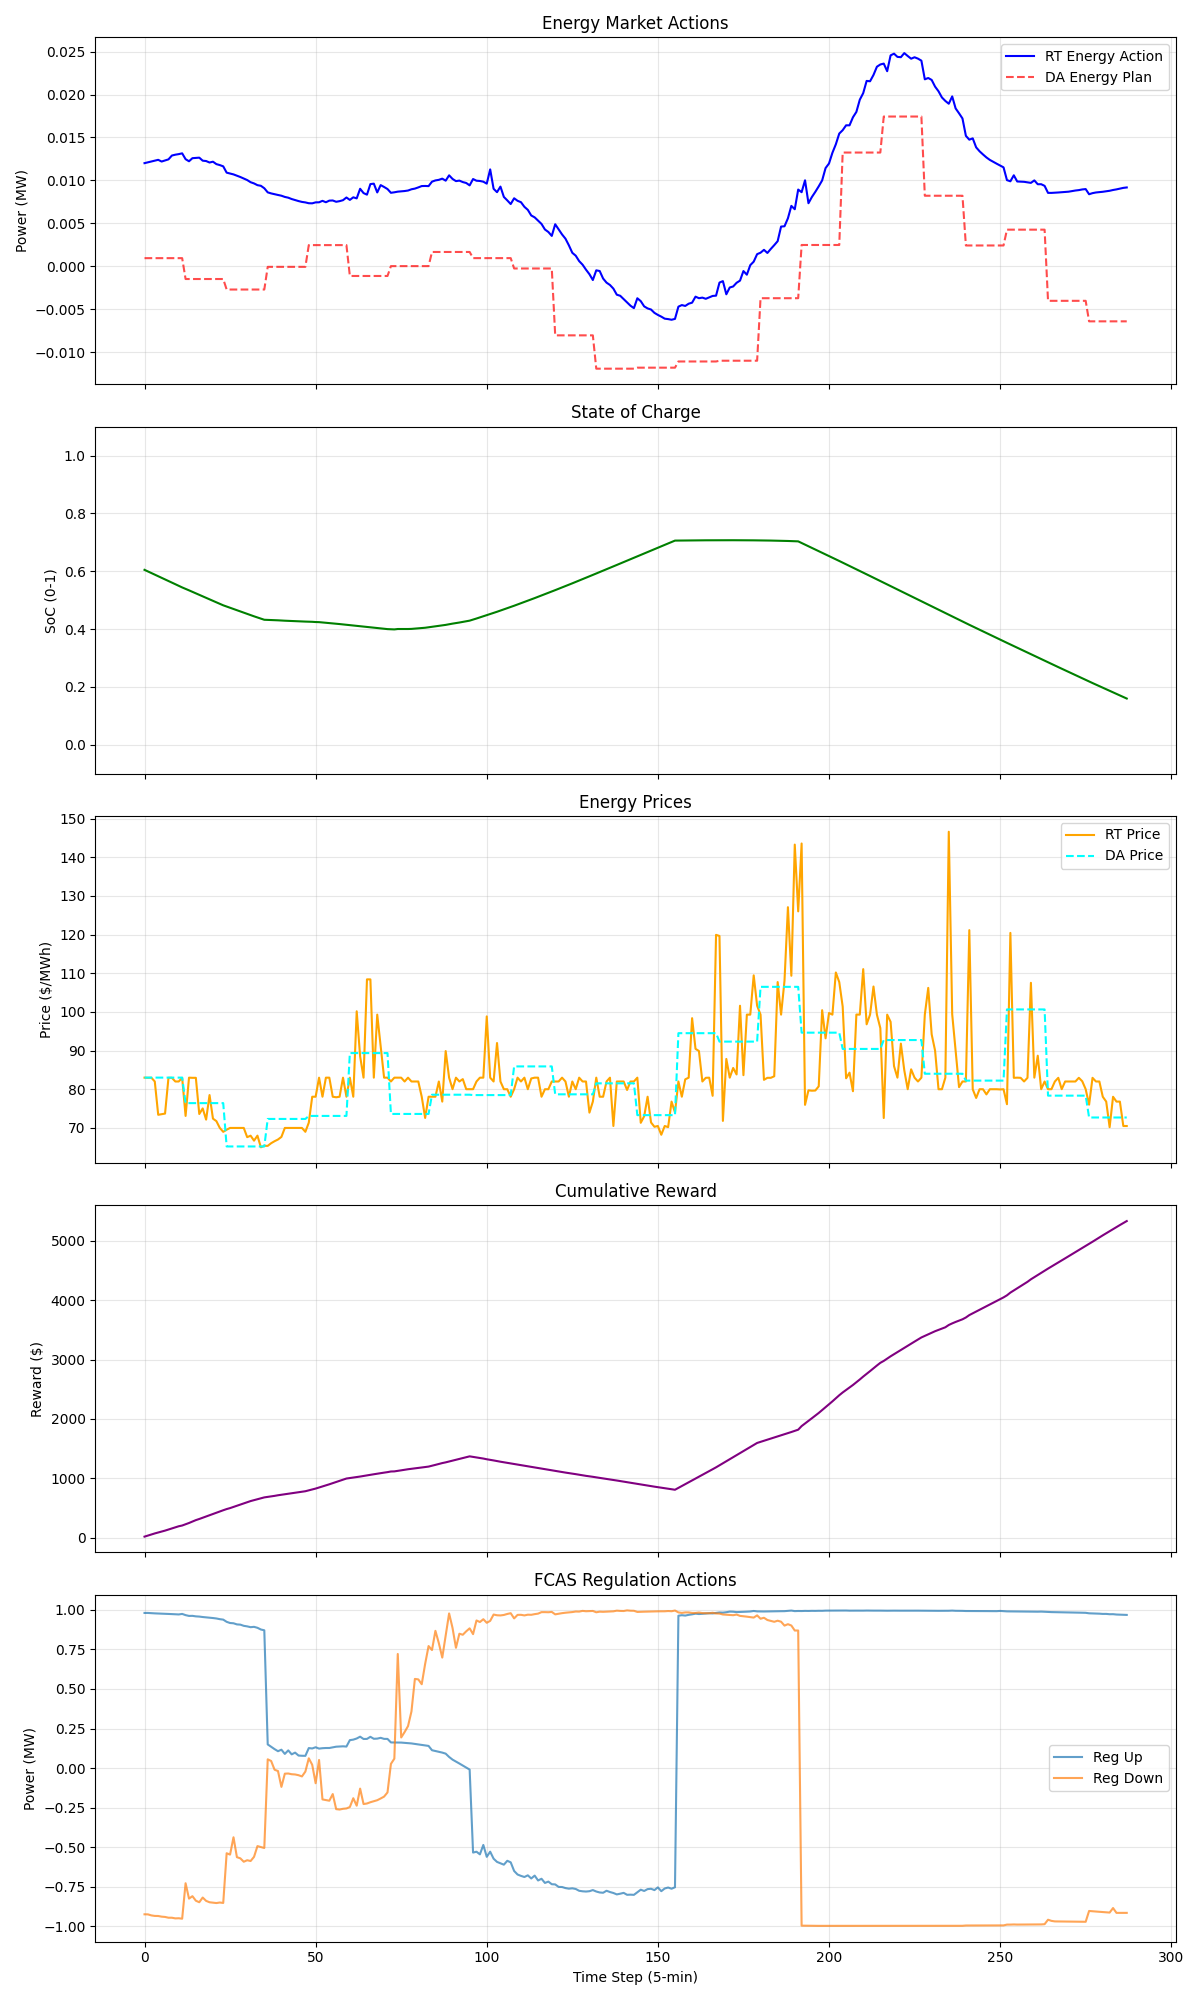
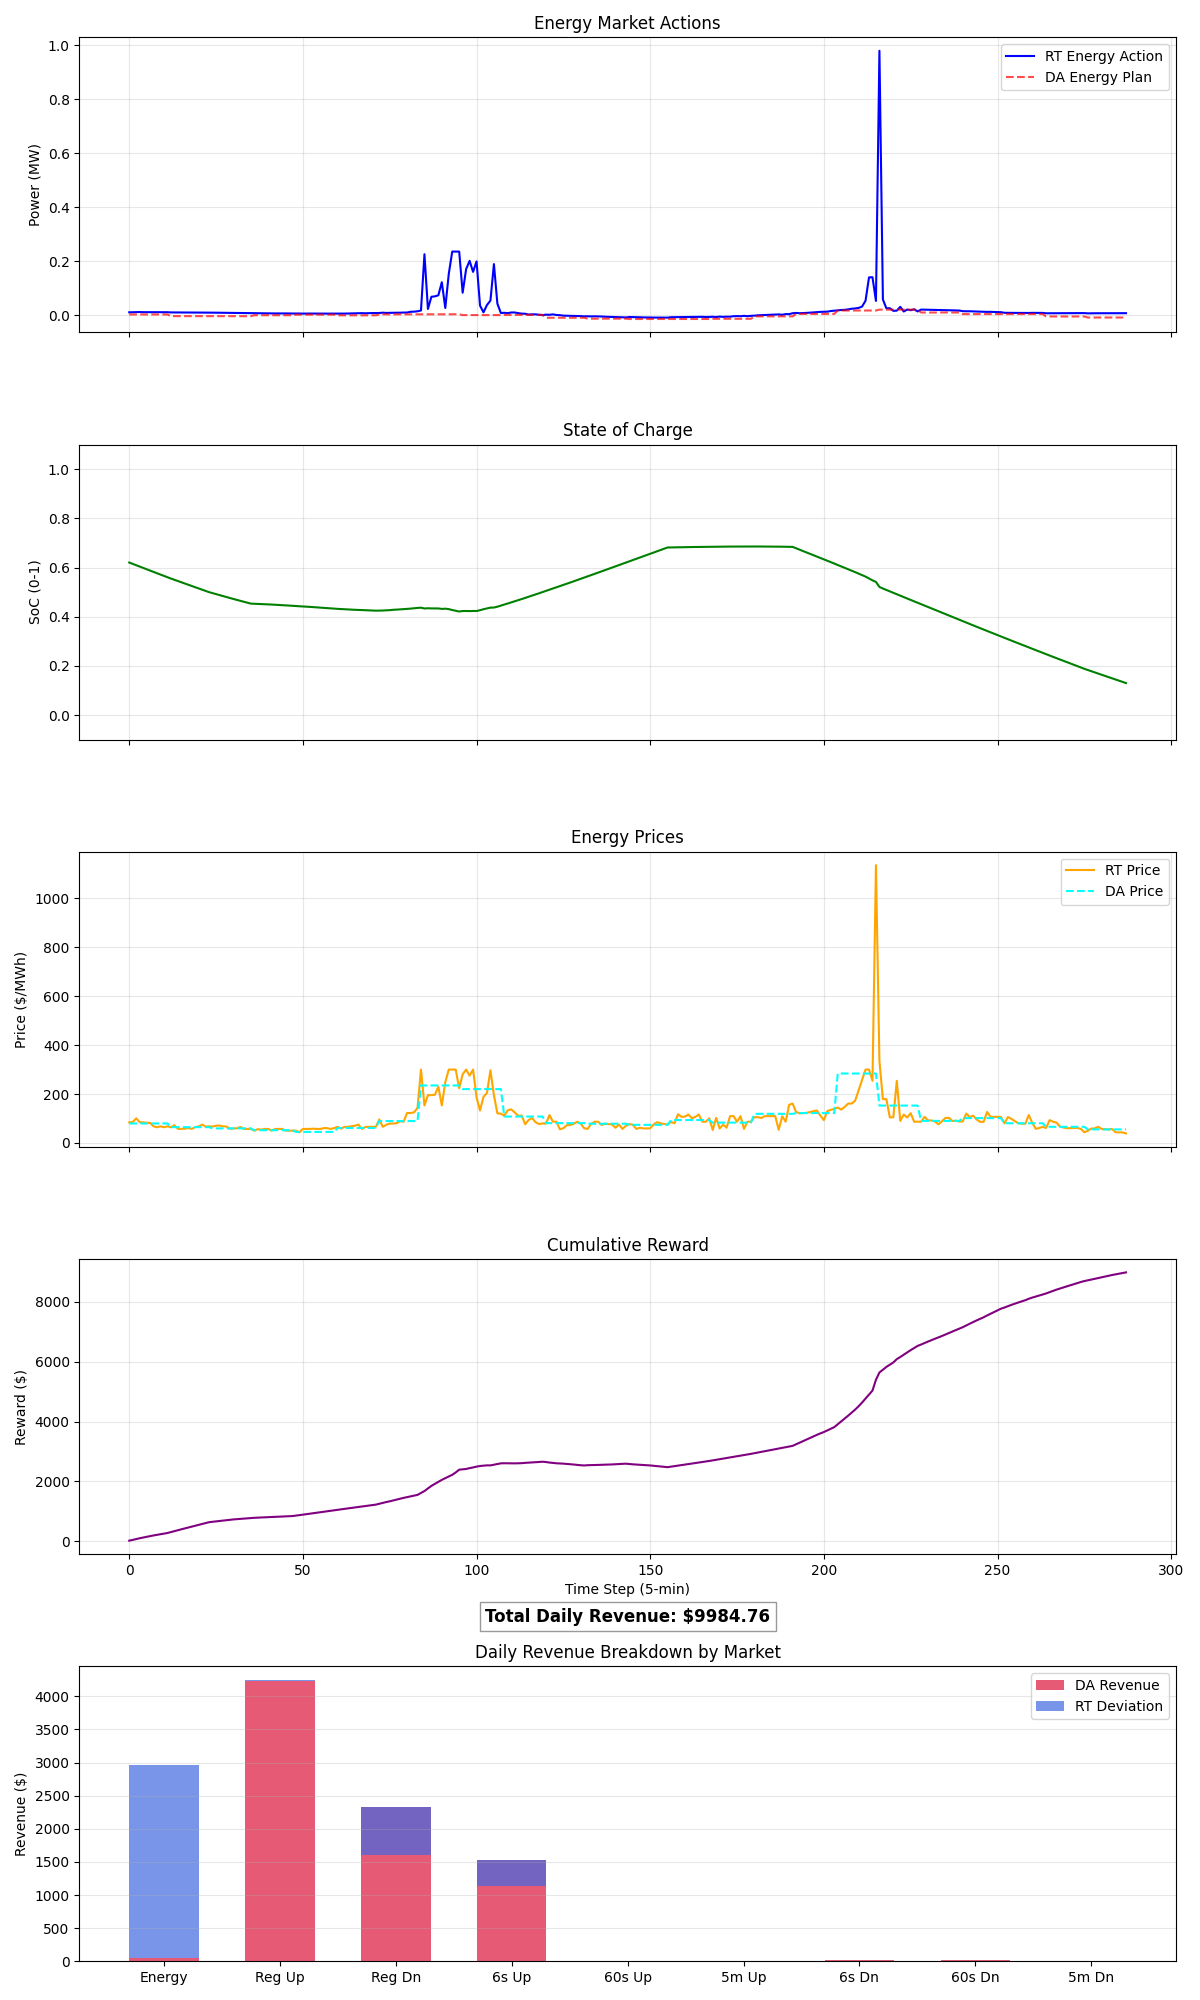
add_test1

diff --git a/run_evaluation.py b/run_evaluation.py
@@ -110,7 +110,18 @@ def plot_results(results, output_dir):
         reward = results['reward'][:steps, batch_idx]
     
     # 创建图表
-    fig, axes = plt.subplots(5, 1, figsize=(12, 20), sharex=True)
+    # 移除 sharex=True，因为最后一个子图是条形图，x轴不同
+    fig, axes = plt.subplots(5, 1, figsize=(12, 20))
+    
+    # 手动设置前4个子图共享x轴
+    axes[1].sharex(axes[0])
+    axes[2].sharex(axes[0])
+    axes[3].sharex(axes[0])
+    
+    # 隐藏前3个子图的x轴标签
+    plt.setp(axes[0].get_xticklabels(), visible=False)
+    plt.setp(axes[1].get_xticklabels(), visible=False)
+    plt.setp(axes[2].get_xticklabels(), visible=False)
     
     # 1. Actions (Energy)
     axes[0].plot(rt_action[:, 0], label='RT Energy Action', color='blue')
@@ -144,21 +155,65 @@ def plot_results(results, output_dir):
     axes[3].plot(cum_reward, label='Cumulative Reward', color='purple')
     axes[3].set_ylabel('Reward ($)')
     axes[3].set_title('Cumulative Reward')
+    axes[3].set_xlabel('Time Step (5-min)') # 添加x轴标签
     axes[3].grid(True, alpha=0.3)
 
-    # 5. FCAS Actions (Reg Up/Down)
-    axes[4].plot(rt_action[:, 1], label='Reg Up', alpha=0.7)
-    axes[4].plot(rt_action[:, 2], label='Reg Down', alpha=0.7)
-    axes[4].set_ylabel('Power (MW)')
-    axes[4].set_title('FCAS Regulation Actions')
-    axes[4].legend()
-    axes[4].grid(True, alpha=0.3)
-    axes[4].set_xlabel('Time Step (5-min)')
+    # 5. Revenue Breakdown (Stacked Bar Chart)
+    # 计算各市场的收益
+    # rev_da: (Total_Steps, Batch, 9) -> Sum over steps -> (9,)
+    # rev_rt_deviation: (Total_Steps, Batch, 9) -> Sum over steps -> (9,)
+    
+    if 'rev_da' in results and 'rev_rt_deviation' in results:
+        # 确保维度正确，如果是 (Total_Steps, Batch, 9)
+        if results['rev_da'].ndim == 3:
+            day_rev_da = np.sum(results['rev_da'][:steps, batch_idx, :], axis=0)
+            day_rev_rt_dev = np.sum(results['rev_rt_deviation'][:steps, batch_idx, :], axis=0)
+        else:
+            # 可能是 (Days, Batch, 9)
+            day_rev_da = results['rev_da'][0, batch_idx, :]
+            day_rev_rt_dev = results['rev_rt_deviation'][0, batch_idx, :]
+
+        markets = ['Energy', 'Reg', 'Reg D', '6s', '60s', '5min', '6s D', '60s D', '5min D']
+        # 注意：MetaDataset 中市场顺序可能略有不同，这里假设顺序为：
+        # 0: Energy
+        # 1: Reg Up, 2: Reg Down
+        # 3: 6s Up, 4: 60s Up, 5: 5min Up
+        # 6: 6s Down, 7: 60s Down, 8: 5min Down
+        # 对应的标签需要调整以匹配索引
+        market_labels = ['Energy', 'Reg Up', 'Reg Dn', '6s Up', '60s Up', '5m Up', '6s Dn', '60s Dn', '5m Dn']
+        
+        x = np.arange(len(market_labels))
+        width = 0.6
+
+        p1 = axes[4].bar(x, day_rev_da, width, label='DA Revenue', color='crimson', alpha=0.7)
+        p2 = axes[4].bar(x, day_rev_rt_dev, width, bottom=day_rev_da, label='RT Deviation', color='royalblue', alpha=0.7)
+
+        axes[4].set_ylabel('Revenue ($)')
+        axes[4].set_title('Daily Revenue Breakdown by Market')
+        axes[4].set_xticks(x)
+        axes[4].set_xticklabels(market_labels)
+        axes[4].legend()
+        axes[4].grid(True, alpha=0.3, axis='y')
+        
+        # 计算总收益
+        total_revenue = np.sum(day_rev_da + day_rev_rt_dev)
+        
+        # 在图表上方添加总收益文本
+        axes[4].text(0.5, 1.15, f"Total Daily Revenue: ${total_revenue:.2f}", 
+                     transform=axes[4].transAxes, ha='center', fontsize=12, fontweight='bold',
+                     bbox=dict(facecolor='white', alpha=0.8, edgecolor='gray'))
+
+    else:
+        axes[4].text(0.5, 0.5, "Revenue data not available", ha='center', va='center')
+        print("Warning: 'rev_da' or 'rev_rt_deviation' not found in results.")
 
     plt.tight_layout()
     save_path = os.path.join(output_dir, "daily_performance.png")
     plt.savefig(save_path)
     print(f"Plot saved to {save_path}")
+    
+    if 'rev_da' in results and 'rev_rt_deviation' in results:
+        print(f"Total Daily Revenue: ${total_revenue:.2f}")
 
 if __name__ == "__main__":
     main()
